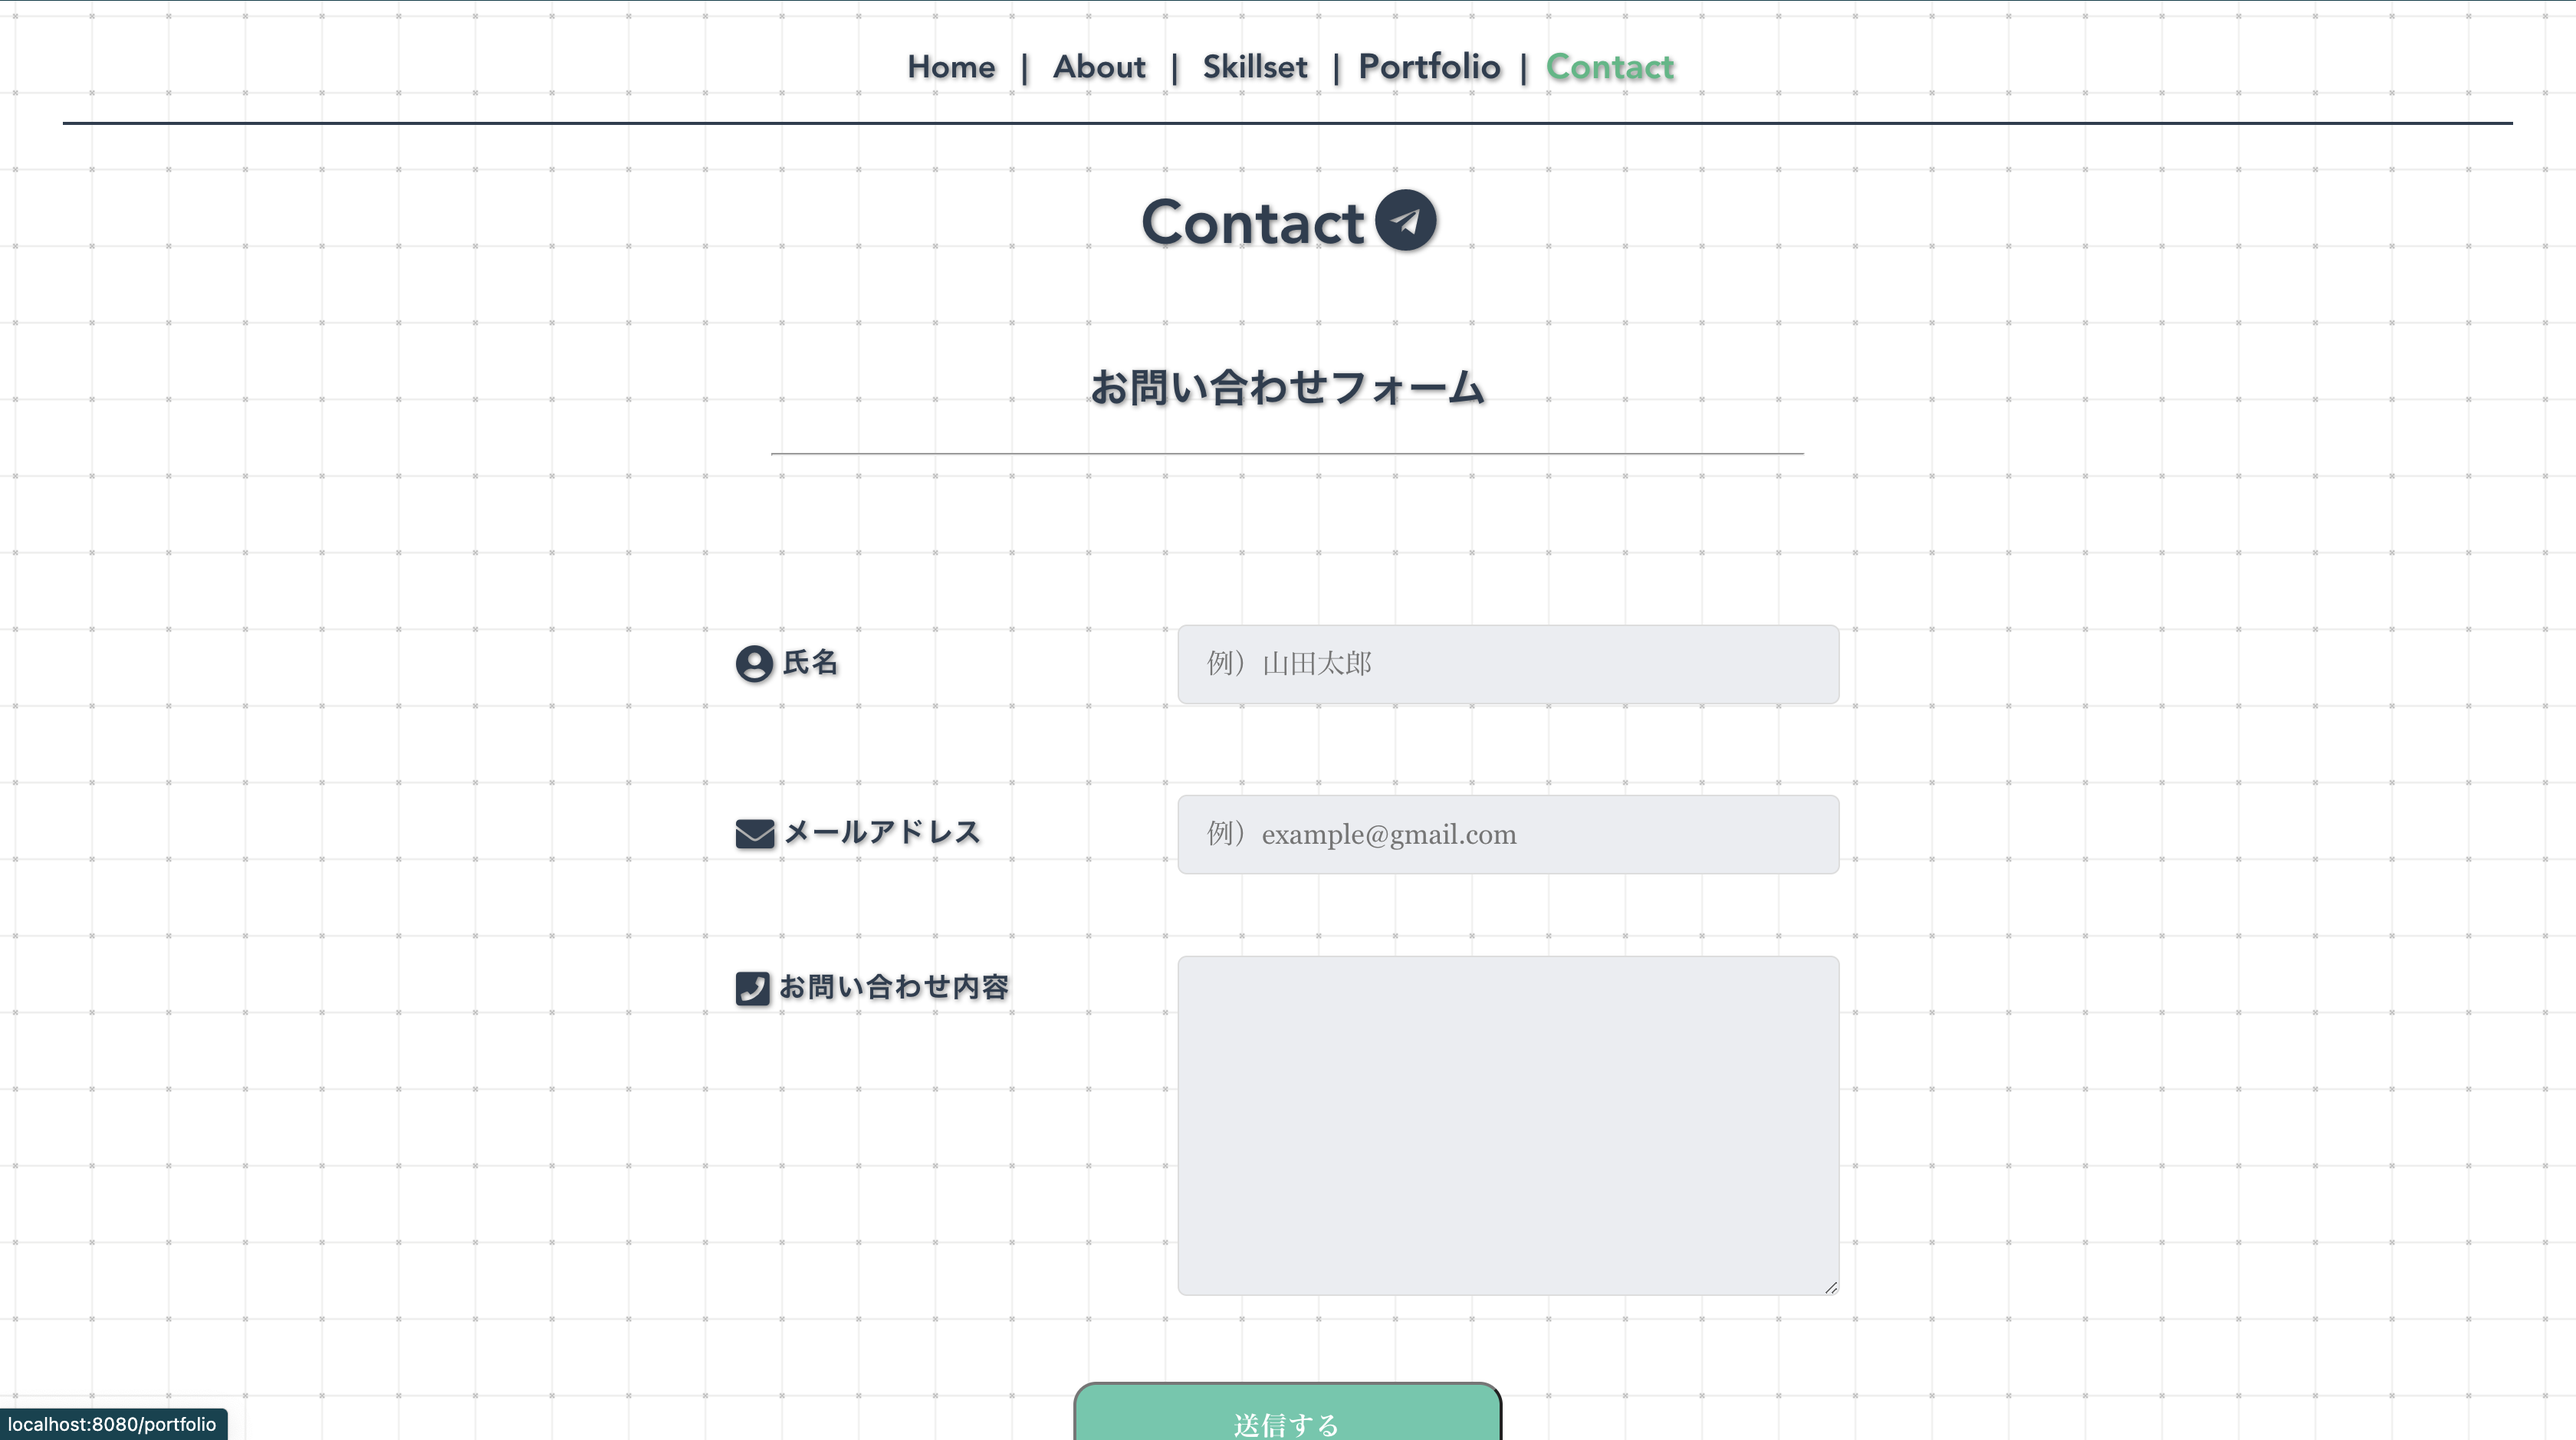
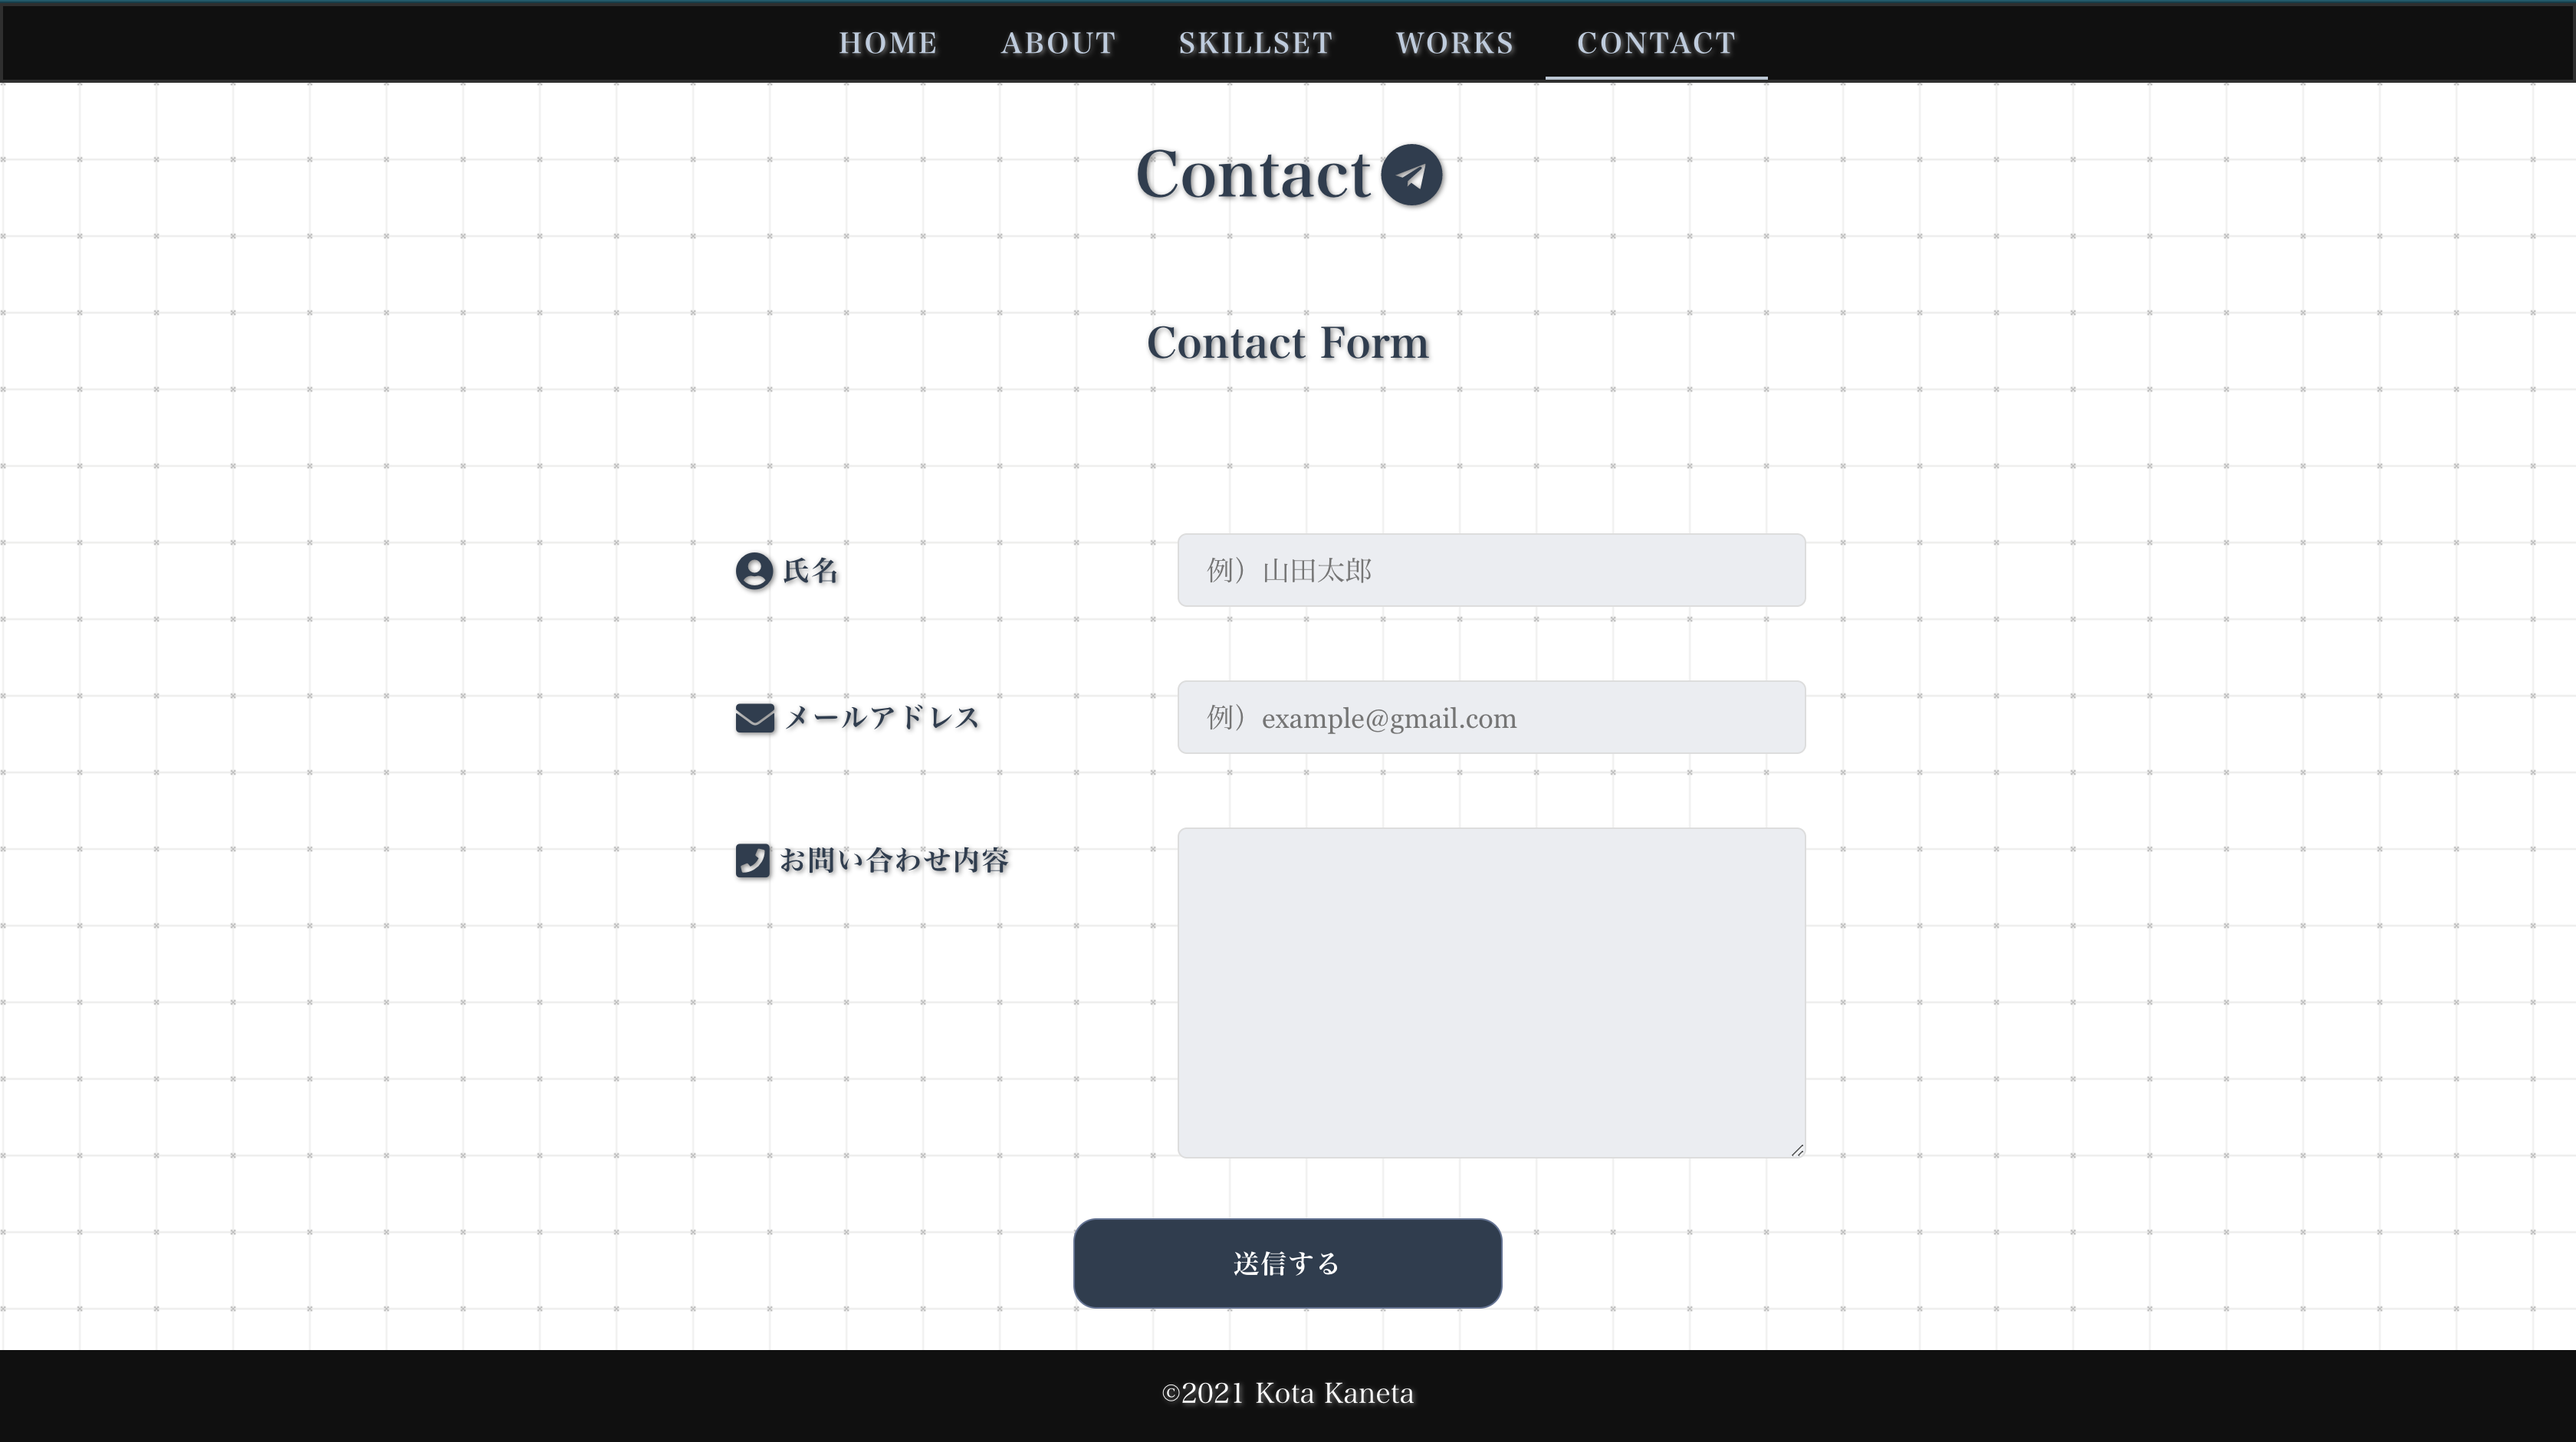
画像差し替え

diff --git a/src/views/About.vue b/src/views/About.vue
@@ -164,7 +164,7 @@ a:active { color: #ff8000; }
   align-items: center;
   font-size: 18px;
   background-color: rgb(16, 16, 16);
-  color: white;
+  color: #d7e4f1;
   height: 60px;
 }
 @media screen and (max-width: 767px) {

diff --git a/src/views/Skillset.vue b/src/views/Skillset.vue
@@ -68,7 +68,7 @@ a:active { color: #ff8000; }
   padding-top: 15px;
   font-size: 18px;
   background-color: rgb(16, 16, 16);
-  color: white;
+  color: #d7e4f1;
   height: 60px;
 }
 @media screen and (max-width: 480px){

diff --git a/src/App.vue b/src/App.vue
@@ -79,7 +79,7 @@
 #pc-nav a,
 #sp-nav a {
   font-weight: bold;
-  color: #bccddf;
+  color: #b8c6d5;
   padding: 0 20px;
   font-size: 18px;
   background-color:rgb(16, 16, 16);

diff --git a/src/views/Works.vue b/src/views/Works.vue
@@ -428,7 +428,7 @@ a:active{
   padding-top: 15px;
   font-size: 18px;
   background-color: rgb(16, 16, 16);
-  color: white;
+  color: #d7e4f1;
   height: 60px;
 }
 </style>

diff --git a/src/views/Contact.vue b/src/views/Contact.vue
@@ -251,7 +251,7 @@
   padding-top: 15px;
   font-size: 18px;
   background-color: rgb(16, 16, 16);
-  color: white;
+  color:#d7e4f1;
   height: 60px;
 }
 </style>

diff --git a/src/views/Home.vue b/src/views/Home.vue
@@ -90,7 +90,7 @@
   padding-top: 15px;
   font-size: 18px;
   background-color: rgb(16, 16, 16);
-  color: white;
+  color:#d7e4f1;
   height: 60px;
 }
 </style>
